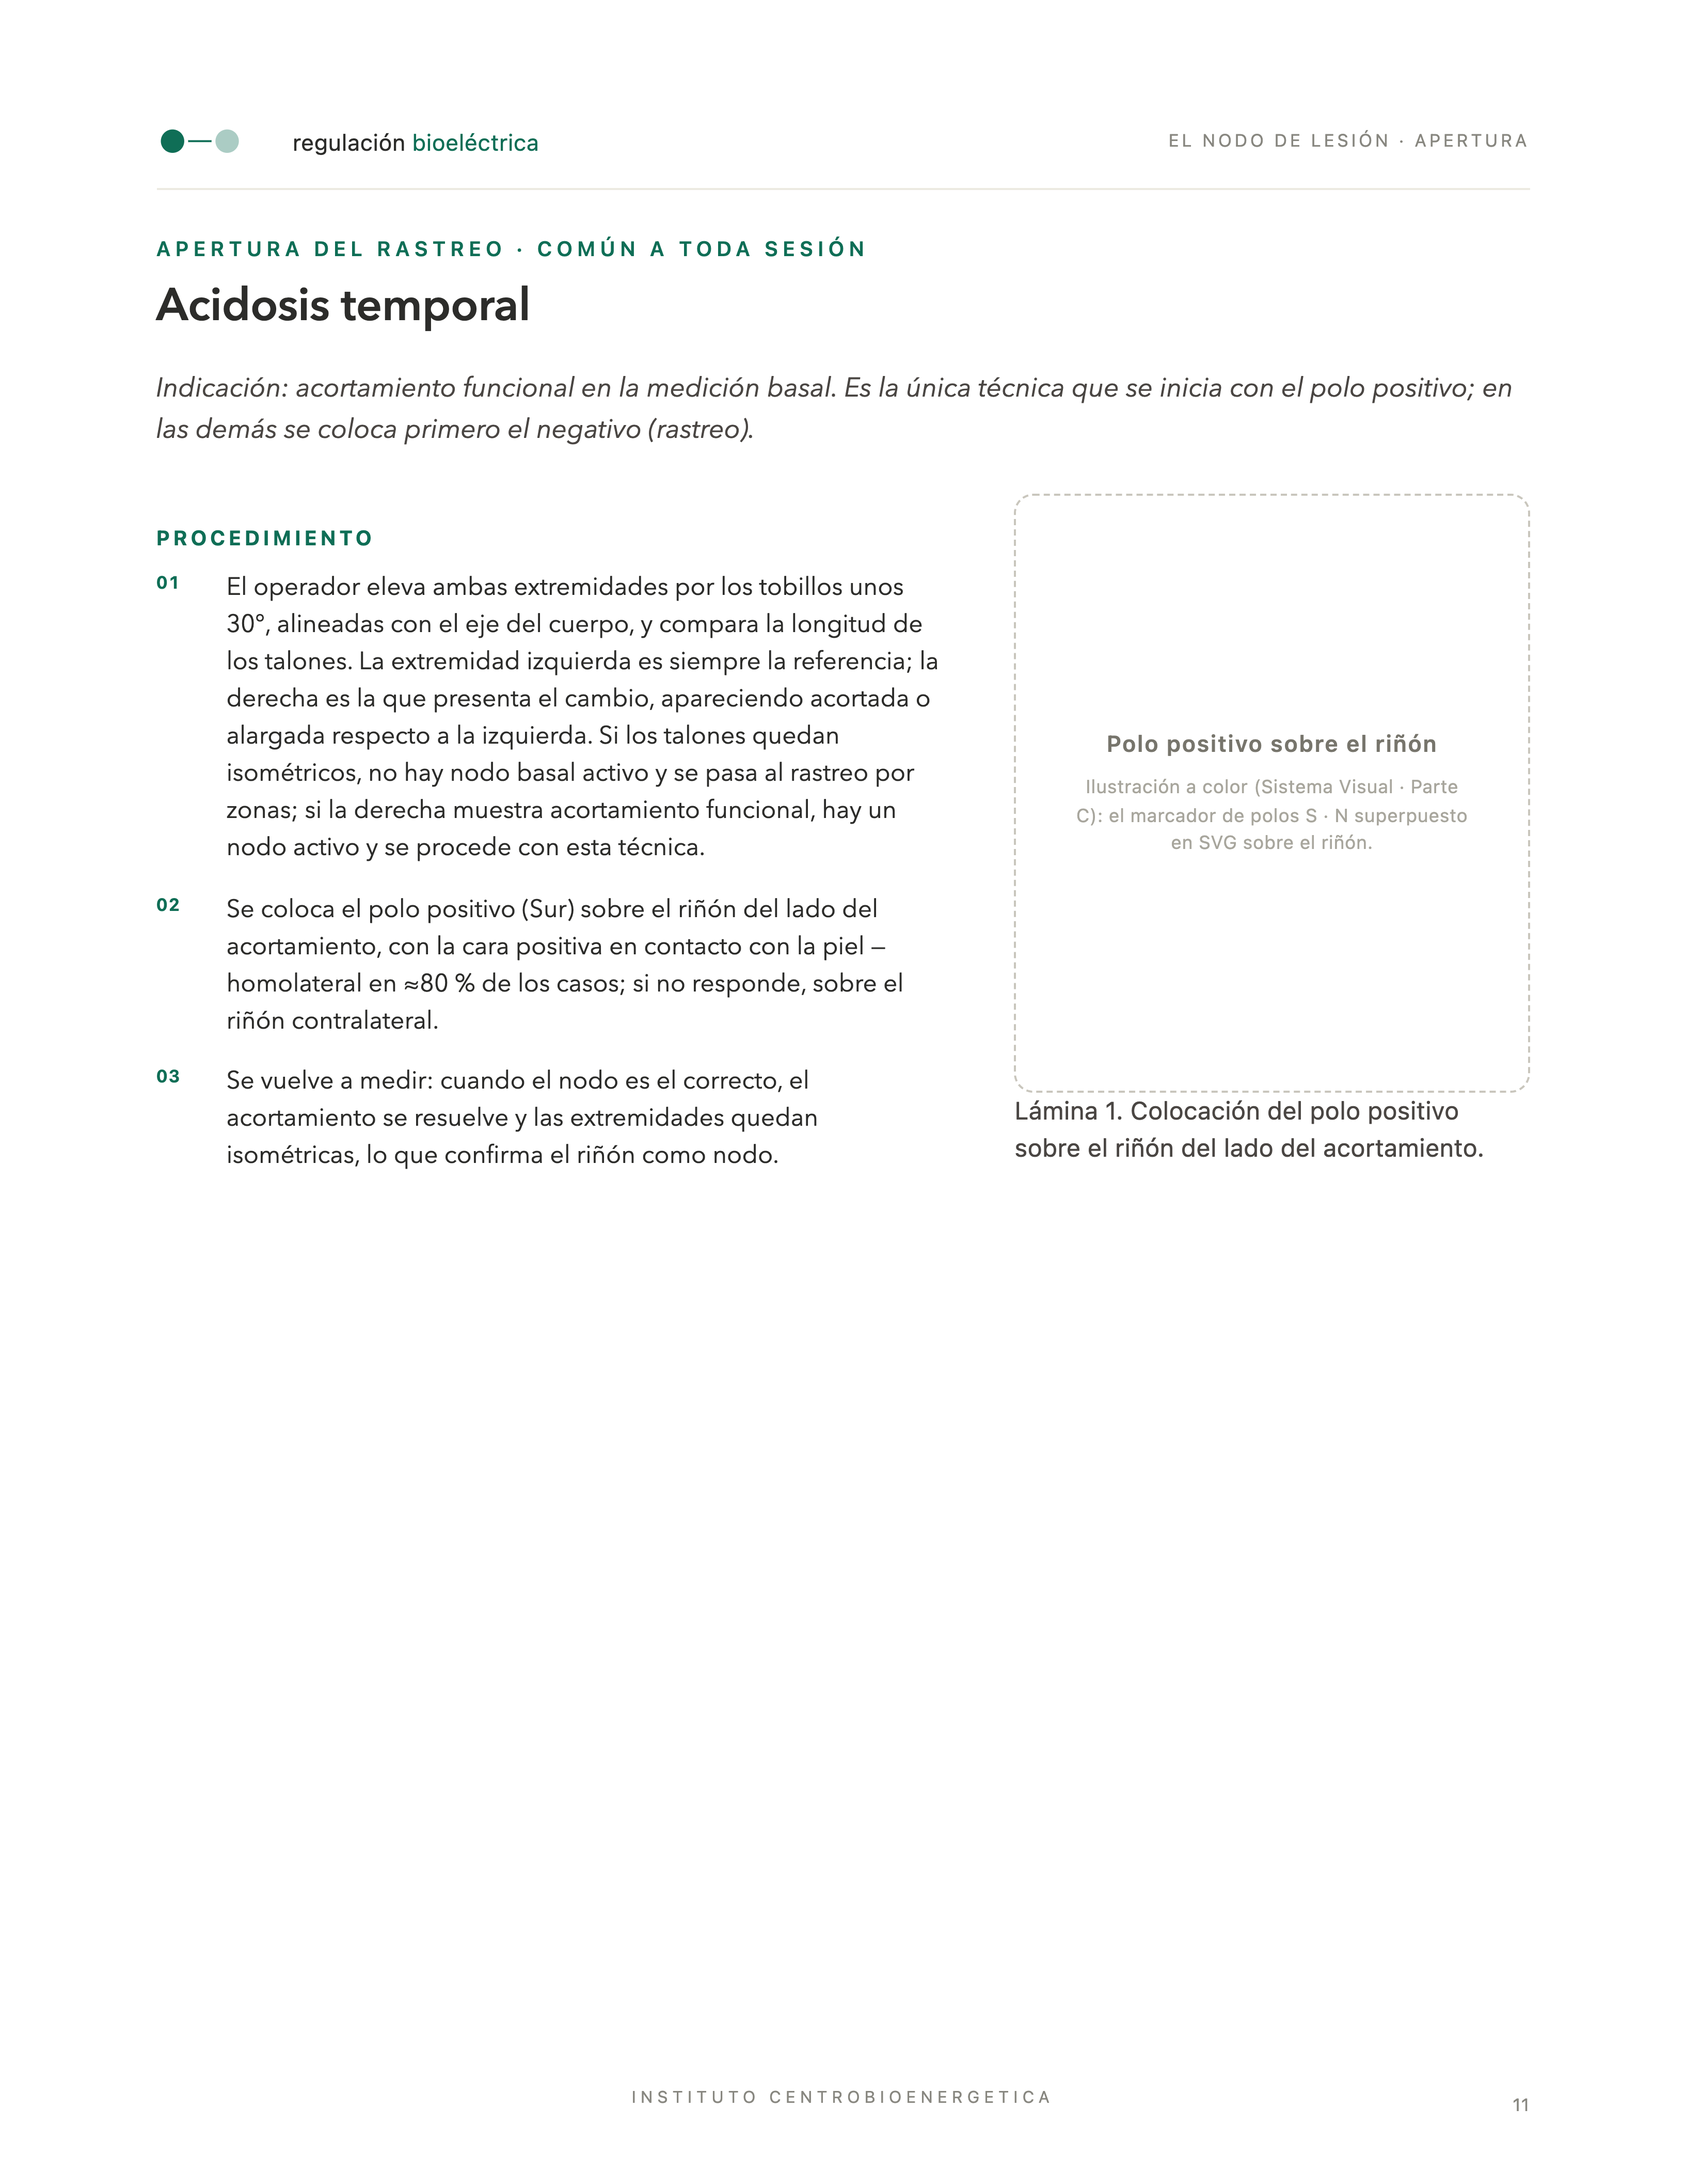
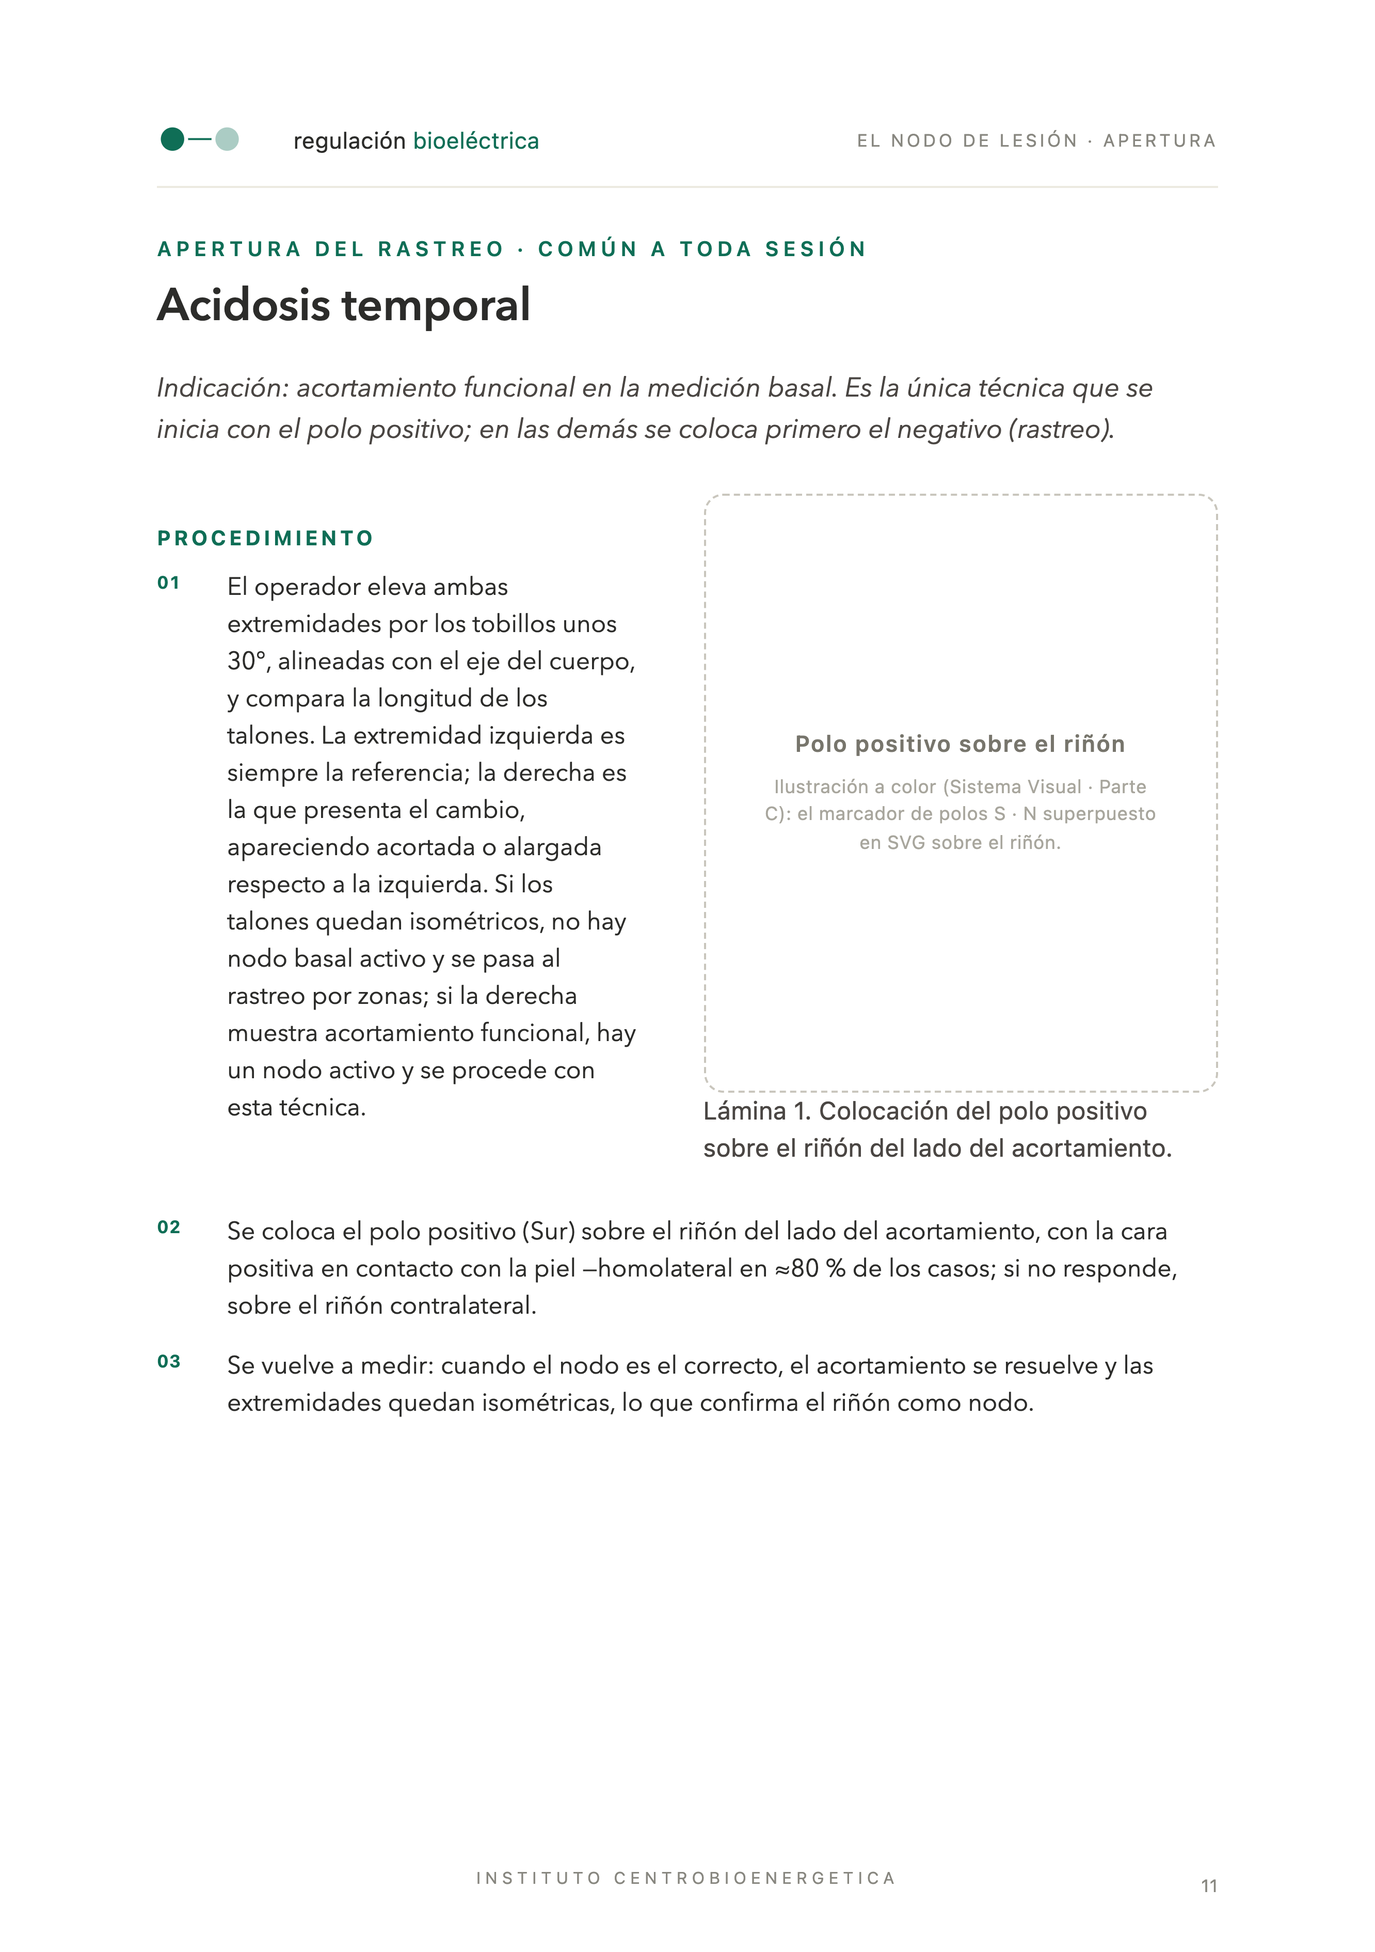
Corrige tamaño físico B5 del manual del nodo de lesión y reexporta imágenes
Faltaba box-sizing:border-box en .b5 .page: cada tipo de hoja (portada,
índice, prem) inflaba su tamaño real por el padding, dando 3 físicos
distintos en vez de 176×250mm. Corregido en Manual_Paginas_RB.html y
Manual_Imprimible_RB.html, más un ajuste de clear:right en 2 páginas
donde la columna angosta rompía el ajuste de texto junto a la lámina.
Arreglada también la ruta de Puppeteer del script de exportación y
reexportadas las 24 imágenes a 2661×3780px (176×250mm reales a 4x).

diff --git a/03_Programas/Cursos_Selectos/El_Cuerpo_Electrico_RB/Referencia/Punto_Trauma/Manual/Manual_Imprimible_RB.html b/03_Programas/Cursos_Selectos/El_Cuerpo_Electrico_RB/Referencia/Punto_Trauma/Manual/Manual_Imprimible_RB.html
@@ -11,7 +11,7 @@
     --display:"Avenir Next","Segoe UI",system-ui,"Helvetica Neue",Arial,sans-serif;
     color:var(--ink);
   }
-  .b5 .page{width:176mm;height:250mm;background:var(--paper);position:relative;overflow:hidden;color:var(--ink);
+  .b5 .page{box-sizing:border-box;width:176mm;height:250mm;background:var(--paper);position:relative;overflow:hidden;color:var(--ink);
     font-family:var(--serif);display:flex;flex-direction:column}
 
   /* PORTADA */
@@ -411,7 +411,7 @@
         <div class="sub">Procedimiento</div>
         <ol class="clin">
           <li>El operador eleva ambas extremidades por los tobillos unos <b>30°</b>, alineadas con el eje del cuerpo, y compara la longitud de los talones. La <b>extremidad izquierda es siempre la referencia</b>; la <b>derecha es la que presenta el cambio</b>, apareciendo acortada o alargada respecto a la izquierda. Si los talones quedan isométricos, no hay nodo basal activo y se pasa al rastreo por zonas; si la derecha muestra <b>acortamiento funcional</b>, hay un nodo activo y se procede con esta técnica.</li>
-          <li>Se coloca el <b>polo positivo (Sur)</b> sobre el <b>riñón del lado del acortamiento</b>, con la <b>cara positiva en contacto con la piel</b> —homolateral en ≈80 % de los casos; si no responde, sobre el riñón contralateral.</li>
+          <li style="clear:right">Se coloca el <b>polo positivo (Sur)</b> sobre el <b>riñón del lado del acortamiento</b>, con la <b>cara positiva en contacto con la piel</b> —homolateral en ≈80 % de los casos; si no responde, sobre el riñón contralateral.</li>
           <li>Se <b>vuelve a medir</b>: cuando el nodo es el correcto, el acortamiento se resuelve y las extremidades quedan isométricas, lo que confirma el riñón como nodo.</li>
         </ol>
       </div>
@@ -553,7 +553,7 @@
         </ol>
         <div class="sub">Montaje de la rejilla 2×2</div>
         <ol class="clin" start="2" style="counter-reset:c 1">
-          <li>Alrededor de ese dipolo, <b>sin moverlo</b>, disponer <b>cuatro imanes iguales</b> formando una cuadrícula de <b>2×2</b> (dos filas y dos columnas), ceñida al punto confirmado.</li>
+          <li style="clear:right">Alrededor de ese dipolo, <b>sin moverlo</b>, disponer <b>cuatro imanes iguales</b> formando una cuadrícula de <b>2×2</b> (dos filas y dos columnas), ceñida al punto confirmado.</li>
           <li>Orientar las polaridades en <b>tablero de ajedrez</b>, de modo que cada imán quede con la <b>polaridad opuesta</b> a sus vecinos de lado y de arriba/abajo —los dos imanes de cada diagonal comparten el mismo polo—. Así, en cada frontera entre imanes contiguos se enfrentan polos opuestos y se forma un <b>gradiente empinado</b>.</li>
         </ol>
         <div class="sub">Tiempo y criterio de retirada</div>

diff --git a/03_Programas/Cursos_Selectos/El_Cuerpo_Electrico_RB/Referencia/Punto_Trauma/Manual/Manual_Paginas_RB.html b/03_Programas/Cursos_Selectos/El_Cuerpo_Electrico_RB/Referencia/Punto_Trauma/Manual/Manual_Paginas_RB.html
@@ -11,7 +11,7 @@
     --display:"Avenir Next","Segoe UI",system-ui,"Helvetica Neue",Arial,sans-serif;
     color:var(--ink);
   }
-  .b5 .page{width:176mm;height:250mm;background:var(--paper);position:relative;overflow:hidden;color:var(--ink);
+  .b5 .page{box-sizing:border-box;width:176mm;height:250mm;background:var(--paper);position:relative;overflow:hidden;color:var(--ink);
     font-family:var(--serif);display:flex;flex-direction:column}
 
   /* PORTADA */
@@ -411,7 +411,7 @@
         <div class="sub">Procedimiento</div>
         <ol class="clin">
           <li>El operador eleva ambas extremidades por los tobillos unos <b>30°</b>, alineadas con el eje del cuerpo, y compara la longitud de los talones. La <b>extremidad izquierda es siempre la referencia</b>; la <b>derecha es la que presenta el cambio</b>, apareciendo acortada o alargada respecto a la izquierda. Si los talones quedan isométricos, no hay nodo basal activo y se pasa al rastreo por zonas; si la derecha muestra <b>acortamiento funcional</b>, hay un nodo activo y se procede con esta técnica.</li>
-          <li>Se coloca el <b>polo positivo (Sur)</b> sobre el <b>riñón del lado del acortamiento</b>, con la <b>cara positiva en contacto con la piel</b> —homolateral en ≈80 % de los casos; si no responde, sobre el riñón contralateral.</li>
+          <li style="clear:right">Se coloca el <b>polo positivo (Sur)</b> sobre el <b>riñón del lado del acortamiento</b>, con la <b>cara positiva en contacto con la piel</b> —homolateral en ≈80 % de los casos; si no responde, sobre el riñón contralateral.</li>
           <li>Se <b>vuelve a medir</b>: cuando el nodo es el correcto, el acortamiento se resuelve y las extremidades quedan isométricas, lo que confirma el riñón como nodo.</li>
         </ol>
       </div>
@@ -553,7 +553,7 @@
         </ol>
         <div class="sub">Montaje de la rejilla 2×2</div>
         <ol class="clin" start="2" style="counter-reset:c 1">
-          <li>Alrededor de ese dipolo, <b>sin moverlo</b>, disponer <b>cuatro imanes iguales</b> formando una cuadrícula de <b>2×2</b> (dos filas y dos columnas), ceñida al punto confirmado.</li>
+          <li style="clear:right">Alrededor de ese dipolo, <b>sin moverlo</b>, disponer <b>cuatro imanes iguales</b> formando una cuadrícula de <b>2×2</b> (dos filas y dos columnas), ceñida al punto confirmado.</li>
           <li>Orientar las polaridades en <b>tablero de ajedrez</b>, de modo que cada imán quede con la <b>polaridad opuesta</b> a sus vecinos de lado y de arriba/abajo —los dos imanes de cada diagonal comparten el mismo polo—. Así, en cada frontera entre imanes contiguos se enfrentan polos opuestos y se forma un <b>gradiente empinado</b>.</li>
         </ol>
         <div class="sub">Tiempo y criterio de retirada</div>

diff --git a/03_Programas/Cursos_Selectos/El_Cuerpo_Electrico_RB/Referencia/Punto_Trauma/Manual/exportar_manual_nodo_lesion.js b/03_Programas/Cursos_Selectos/El_Cuerpo_Electrico_RB/Referencia/Punto_Trauma/Manual/exportar_manual_nodo_lesion.js
@@ -1,6 +1,6 @@
 // Exporta cada página del Manual "El nodo de lesión" (B5) a PNG en alta resolución (4x ≈ 380 dpi).
 // Uso: node exportar_manual_nodo_lesion.js   ·   Salida: ./export_manual/*.png
-const puppeteer = require('/Users/miguel/Centrobioenergetica-Instituto/Cursos_Selectos/Taller_Actos_que_Mueven/Programa_Final/node_modules/puppeteer');
+const puppeteer = require('/Users/miguelojedarios/node_modules/puppeteer');
 const path = require('path'); const fs = require('fs');
 const SCALE = 4;
 const OUT_DIR = path.resolve(__dirname, 'export_manual');
